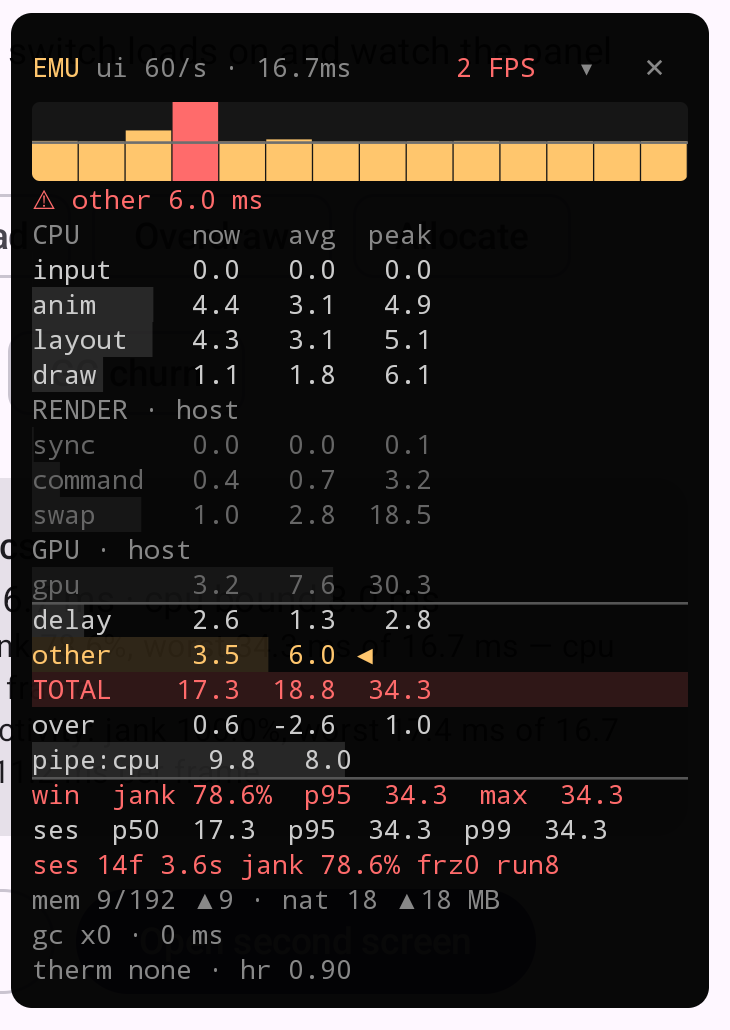
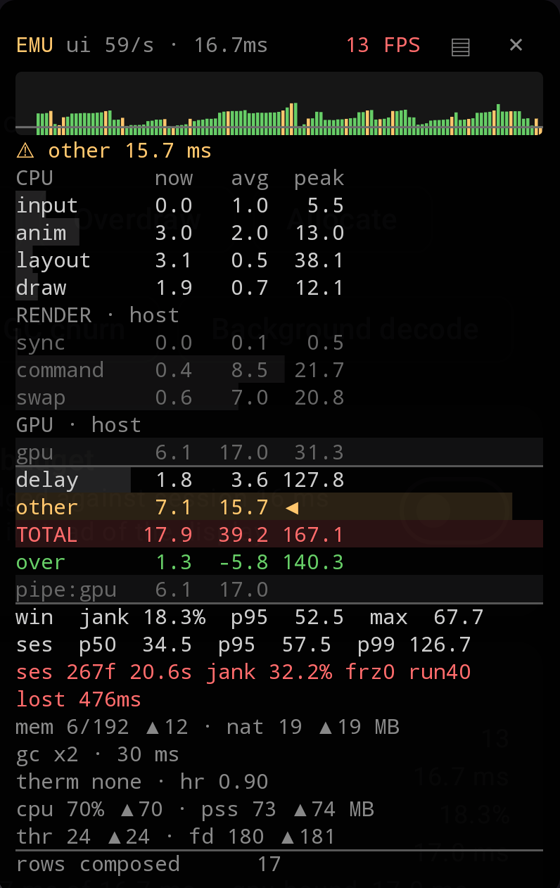
Replace the screenshots the panel outgrew

diff --git a/README.ru.md b/README.ru.md
@@ -10,7 +10,7 @@
 Перетаскиваемая debug-панель: показывает, сколько занимает каждая стадия кадра и какая из них вас
 тормозит.
 
-<img src="docs/panel.png" alt="Панель поверх примера при скролле списка на 120 Гц" width="420">
+<img src="docs/panel.png" alt="Панель поверх примера при скролле списка" width="420">
 
 - **Строка на каждую стадию**. `input`, `anim`, `layout`, `draw` на main thread, затем `sync`,
   `command`, `swap` на render thread, и `gpu`

diff --git a/README.md b/README.md
@@ -10,7 +10,7 @@
 A draggable debug panel that shows how long each stage of a frame takes, and which one is slowing
 you down.
 
-<img src="docs/panel.png" alt="The panel over the sample app while scrolling a list at 120 Hz" width="420">
+<img src="docs/panel.png" alt="The panel over the sample app while scrolling a list" width="420">
 
 - **A row per stage.** `input`, `anim`, `layout`, `draw` on the main thread, then `sync`, `command`,
   `swap` on the render thread, and `gpu`
